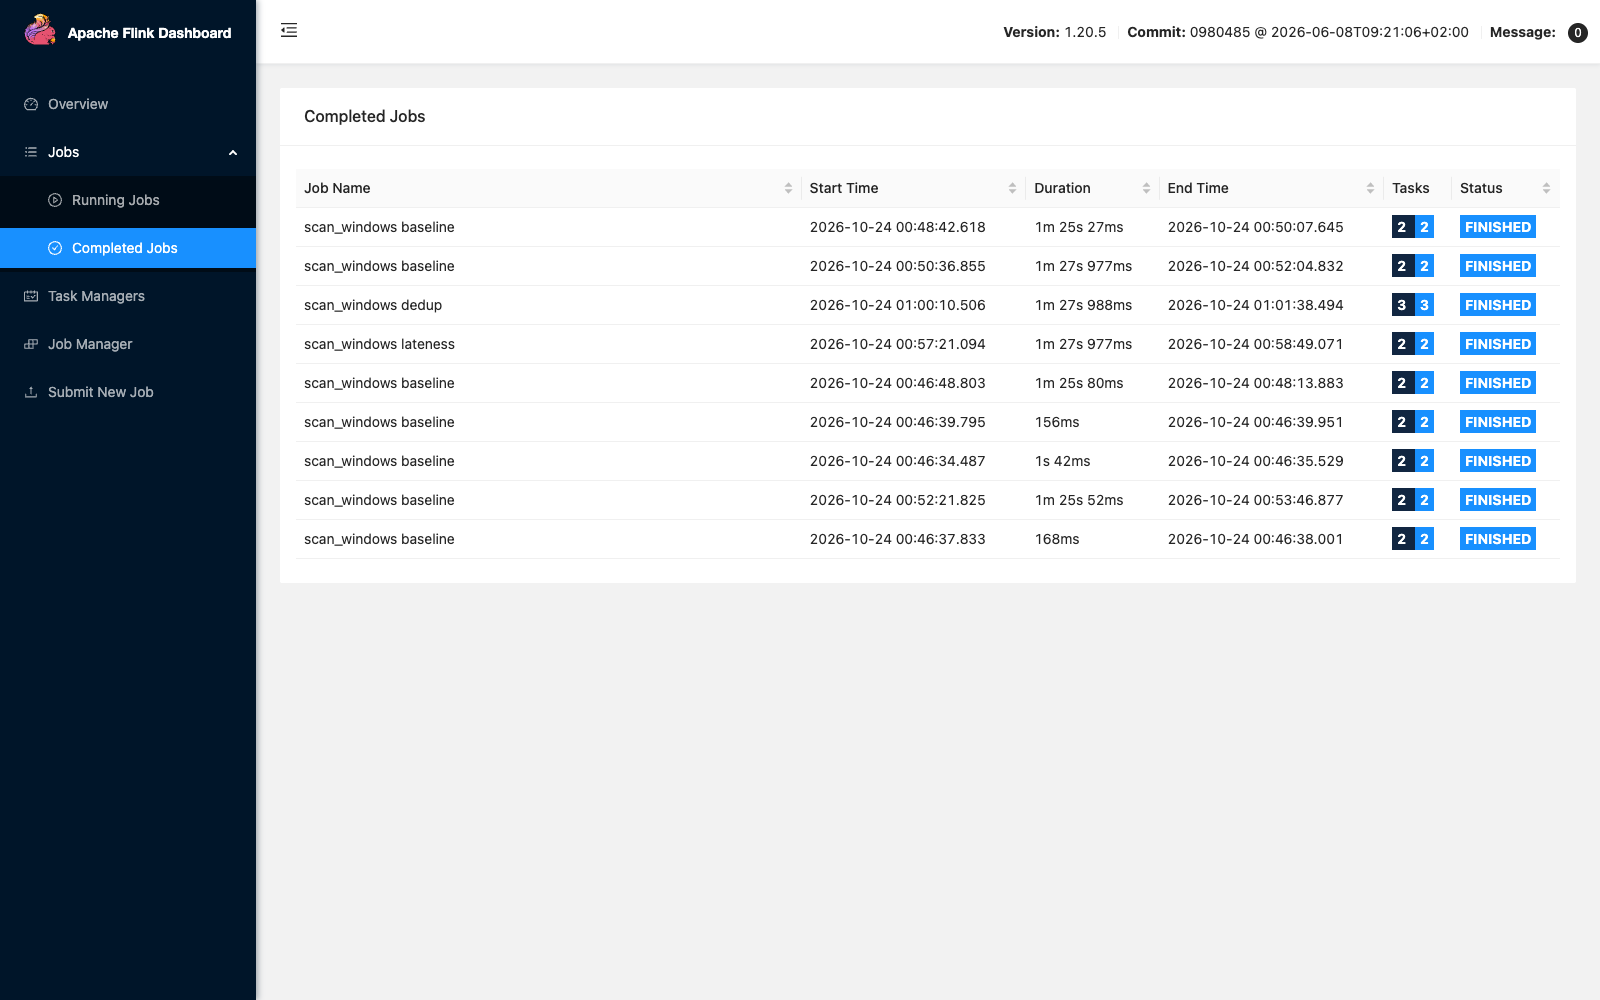
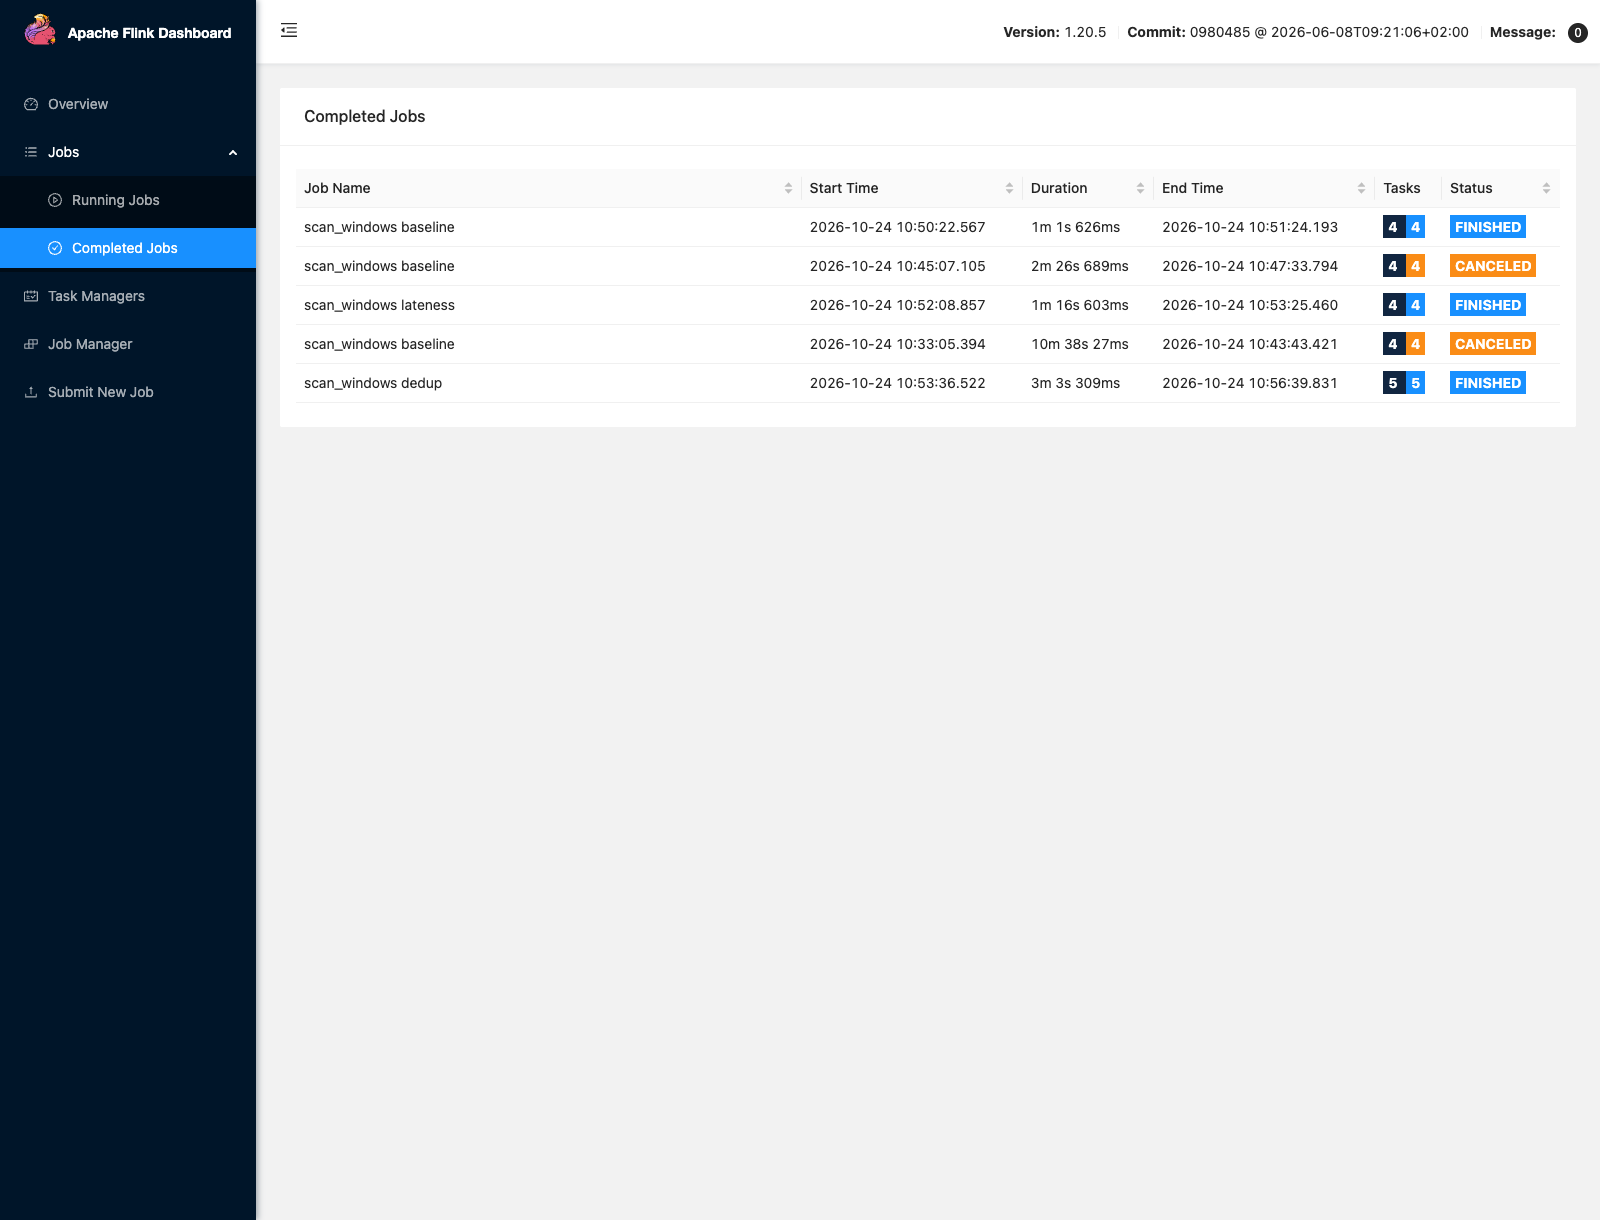
docs(streaming): Flink UI proof of the late scans on one full-scale day
The three modes ran again with the late scans as their own task, on the multi-stage image, over
one full-scale day (1,166,051 records at 20,000 per second; the pacing bound still holds). The
job graphs now show the problem and each fix: the window task sends 87,137 scans to late scans
in the baseline, 0 with allowed lateness, and in dedup KEYED PROCESS removes the 17,232 retries
and every window is exact. One caption per image.

Also: the services' image is lastleg/flink:1.20.5, its compilers are only in the first stage,
and a retry of a late scan is dropped with it.

diff --git a/docs/streaming.md b/docs/streaming.md
@@ -125,15 +125,19 @@ docker compose --profile core --profile stream up -d --wait
 
 | Service | Image | Settings | Port on the Mac | Idle memory |
 |---|---|---|---|---:|
-| `flink-jobmanager` | `lastleg/flink:1.20.5-naive` | `jobmanager.memory.process.size: 1024m` | `127.0.0.1:8084` (Flink UI; 8081 is the Spark worker UI) | 338 MiB |
+| `flink-jobmanager` | `lastleg/flink:1.20.5` (multi-stage) | `jobmanager.memory.process.size: 1024m` | `127.0.0.1:8084` (Flink UI; 8081 is the Spark worker UI) | 338 MiB |
 | `flink-taskmanager` | same | `taskmanager.memory.process.size: 2048m`, 1 slot, parallelism 1 | | 427 MiB |
+
+The idle memory was measured on the first image, `lastleg/flink:1.20.5-naive`, which also ran the
+slice-week results below.
 
 The image adds these to `flink:1.20.5-scala_2.12-java17`. The first build
 (`infra/flink/Dockerfile.naive`) was 2.06 GB; the services now run the multi-stage
 `infra/flink/Dockerfile` at 1.68 GB ([environment.md](environment.md#built-images-naive-against-multi-stage)):
 
 - Python 3.10.12 and PyFlink 1.20.5, compiled from source because PyPI has no arm64 wheel
-  ([environment.md](environment.md#pyflink-on-arm64)). The compilers stay in this one-stage image.
+  ([environment.md](environment.md#pyflink-on-arm64)). The compilers are only in the first stage,
+  which builds the wheels; the image the services run keeps none.
 - `libpython3.10`, which thread mode needs.
 - `flink-sql-connector-kafka` 3.4.0-1.20.
 - A copy of `flink-python` in `lib/` (see Pitfalls).
@@ -158,7 +162,8 @@ counts = (
     .process(CountScans(args.mode), output_type=Types.STRING())                          # 6
 )
 counts.sink_to(kafka_sink(OUTPUT))                                                       # 7
-counts.get_side_output(late).map(as_json, output_type=Types.STRING()).sink_to(kafka_sink(LATE))
+late_scans = counts.get_side_output(late).map(as_json, output_type=Types.STRING()).name("late scans").disable_chaining()
+late_scans.sink_to(kafka_sink(LATE))                                                     # 8
 ```
 
 1. **The watermark trails the newest event time seen by 10 s.** A watermark W tells every operator
@@ -188,6 +193,10 @@ counts.get_side_output(late).map(as_json, output_type=Types.STRING()).sink_to(ka
    after `promised_ts`. Each firing is one JSON record, with the watermark at that moment.
 7. **Two at-least-once Kafka sinks:** the windows go to `hub-delivery-5m`, the late scans to
    `scans-late`.
+8. **The late scans are a task of their own** (`disable_chaining()`). Chained to the window, they
+   were invisible in the Flink UI, which counts records only between tasks. As their own task,
+   the UI shows how many scans missed their window. This changes no result, only what the UI can
+   count; the slice-week results below ran before the change.
 
 One window, and one late scan that missed a window:
 
@@ -257,15 +266,16 @@ Run 1 in totals:
 | Truth | 83,460 | 27,577 | 4,738 |
 | Flink | 79,166 | 26,281 | 4,525 |
 
-The Flink total is 83,460 − 5,546 dropped + 1,252 retries = 79,166.
+The Flink total is 84,712 records read − 5,546 dropped = 79,166 scans in the windows.
 
 **What the baseline shows:**
 
 - **Late arrivals are lost to the windows.** Every dropped scan arrived at least 123 s after it
   happened: in run 4, 1,948 `at_hub`, 1,894 `picked_up` and 1,746 `delivered` scans. Run 1 has
   1,182 windows missing entirely: windows whose scans all came late.
-- **Retries are counted twice.** That over-counts 911 windows. No retry was dropped: a retry
-  trails its first send by 10 s at most.
+- **Retries are counted twice.** The retries of on-time scans over-count 911 windows. A retry of
+  a scan that came late is dropped with it: it arrives 1 to 10 s after the first send, and by then
+  the watermark has not moved back.
 - **Flink drops 11% to 12% fewer than the simulation,** and the count varies by up to 1.7%
   between runs. The source emits the watermark on a 1 ms timer, not after every record. So a late scan
   close to its window's end can still find the window open, depending on when the timer fired.
@@ -334,17 +344,62 @@ replay, the whole week takes 85 s, so no flag expires during a run. On a live st
 time and event time move together. The TTL then bounds the state to about 15 minutes of scans,
 against a retry gap of 10 s at most.
 
-The Flink UI (`http://127.0.0.1:8084`): the finished jobs, then the job graph of one run per mode.
-The short baseline jobs are the smoke runs. In the dedup graph, `KEYED PROCESS` receives 84,712
-records and sends 83,460.
+## Flink UI proof (2026-10-24): one full-scale day
 
-![Flink completed jobs](images/streaming/flink-completed-jobs.png)
+The slice-week runs above ran before the late scans were their own task, so their Flink UI could
+not show the drops. After that change (step 8), the three modes ran again on the multi-stage
+image, `lastleg/flink:1.20.5`. By then `app-exports` and `oms` held the full-scale generation, so
+the runs replay one full-scale day: the scans of export date 2024-11-04.
 
-![Baseline job](images/streaming/flink-job-baseline.png)
+```bash
+uv run python -m generator.stream_windows --mode baseline --start 2024-11-04 --days 1 --rate 20000
+```
 
-![Lateness job](images/streaming/flink-job-lateness.png)
+**The pacing rule still holds.** The day has 1,166,051 records over 86,400 s of event time,
+about 13.5 per event-second. At 20,000 records per second, one 1 ms watermark interval covers
+about 1.5 s of event time, well under the 10 s bound. The baseline job kept up with the sending
+(61.6 s for 58.3 s). The dedup job read more slowly (183.3 s), so each interval covered even less
+event time. The records are 1,148,819 scans and 17,232 retries (1.50%).
 
-![Dedup job](images/streaming/flink-job-dedup.png)
+| | Baseline | Lateness | Dedup |
+|---|---:|---:|---:|
+| windows exact (of 9,281) | 1,112 = 11.98% | 3,811 = 41.06% | **9,281 = 100.00%** |
+| over-counted, under-counted | 908, 7,728 | 5,470, 0 | 0, 0 |
+| windows missing | 19 | 0 | 0 |
+| dropped (Flink, simulated) | 87,137, 87,261 | 0, 0 | 0, 0 |
+| scans in the windows (truth 1,148,819) | 1,078,914 | 1,166,051 | 1,148,819 |
+| firings | 9,262 | 96,414 | 95,134 |
+| job runtime | 61.6 s | 76.6 s | 183.3 s |
+
+A full-scale window holds about 124 scans, against about 3 on the slice. Most windows therefore
+hold at least one late scan or one retry, which is why fewer windows are exact than on the slice.
+The three fixes give the same verdict: allowed lateness removes every drop, and the keyed dedup
+then makes every window exact. The baseline's 87,137 drops are within 0.14% of the simulated
+87,261, because at this rate the watermark moves almost record by record.
+
+**What the Flink UI shows.** The job graph's table counts the records between tasks. The
+`Records Sent` of the window task is the number of scans it sent to the side output, and the
+`Records Received` of `late scans` is the same number.
+
+The completed jobs. The two cancelled baseline jobs are the first attempts, which replayed a
+whole full-scale week at 1,000 records per second, about 2 hours a run; they were stopped:
+
+![Flink completed jobs: baseline, lateness and dedup finished on one full-scale day; two cancelled full-week baseline attempts](images/streaming/flink-completed-jobs.png)
+
+**Baseline.** The window task receives all 1,166,051 records and sends 87,137 to `late scans`:
+every one of them arrived after the watermark had passed its window's end.
+
+![Baseline job graph: the window task sends 87,137 records to late scans](images/streaming/flink-job-baseline.png)
+
+**Allowed lateness.** The same graph, with 20 minutes of allowed lateness. The window task sends
+0 records to `late scans`: every late scan found its window still open.
+
+![Lateness job graph: the window task sends 0 records to late scans](images/streaming/flink-job-lateness.png)
+
+**Dedup.** The `KEYED PROCESS` task (`FirstSend`) receives 1,166,051 records and sends 1,148,819:
+it removed exactly the 17,232 retries. The window task then sends 0 records to `late scans`.
+
+![Dedup job graph: KEYED PROCESS turns 1,166,051 records into 1,148,819, and no scan reaches late scans](images/streaming/flink-job-dedup.png)
 
 ## Pitfalls
 
